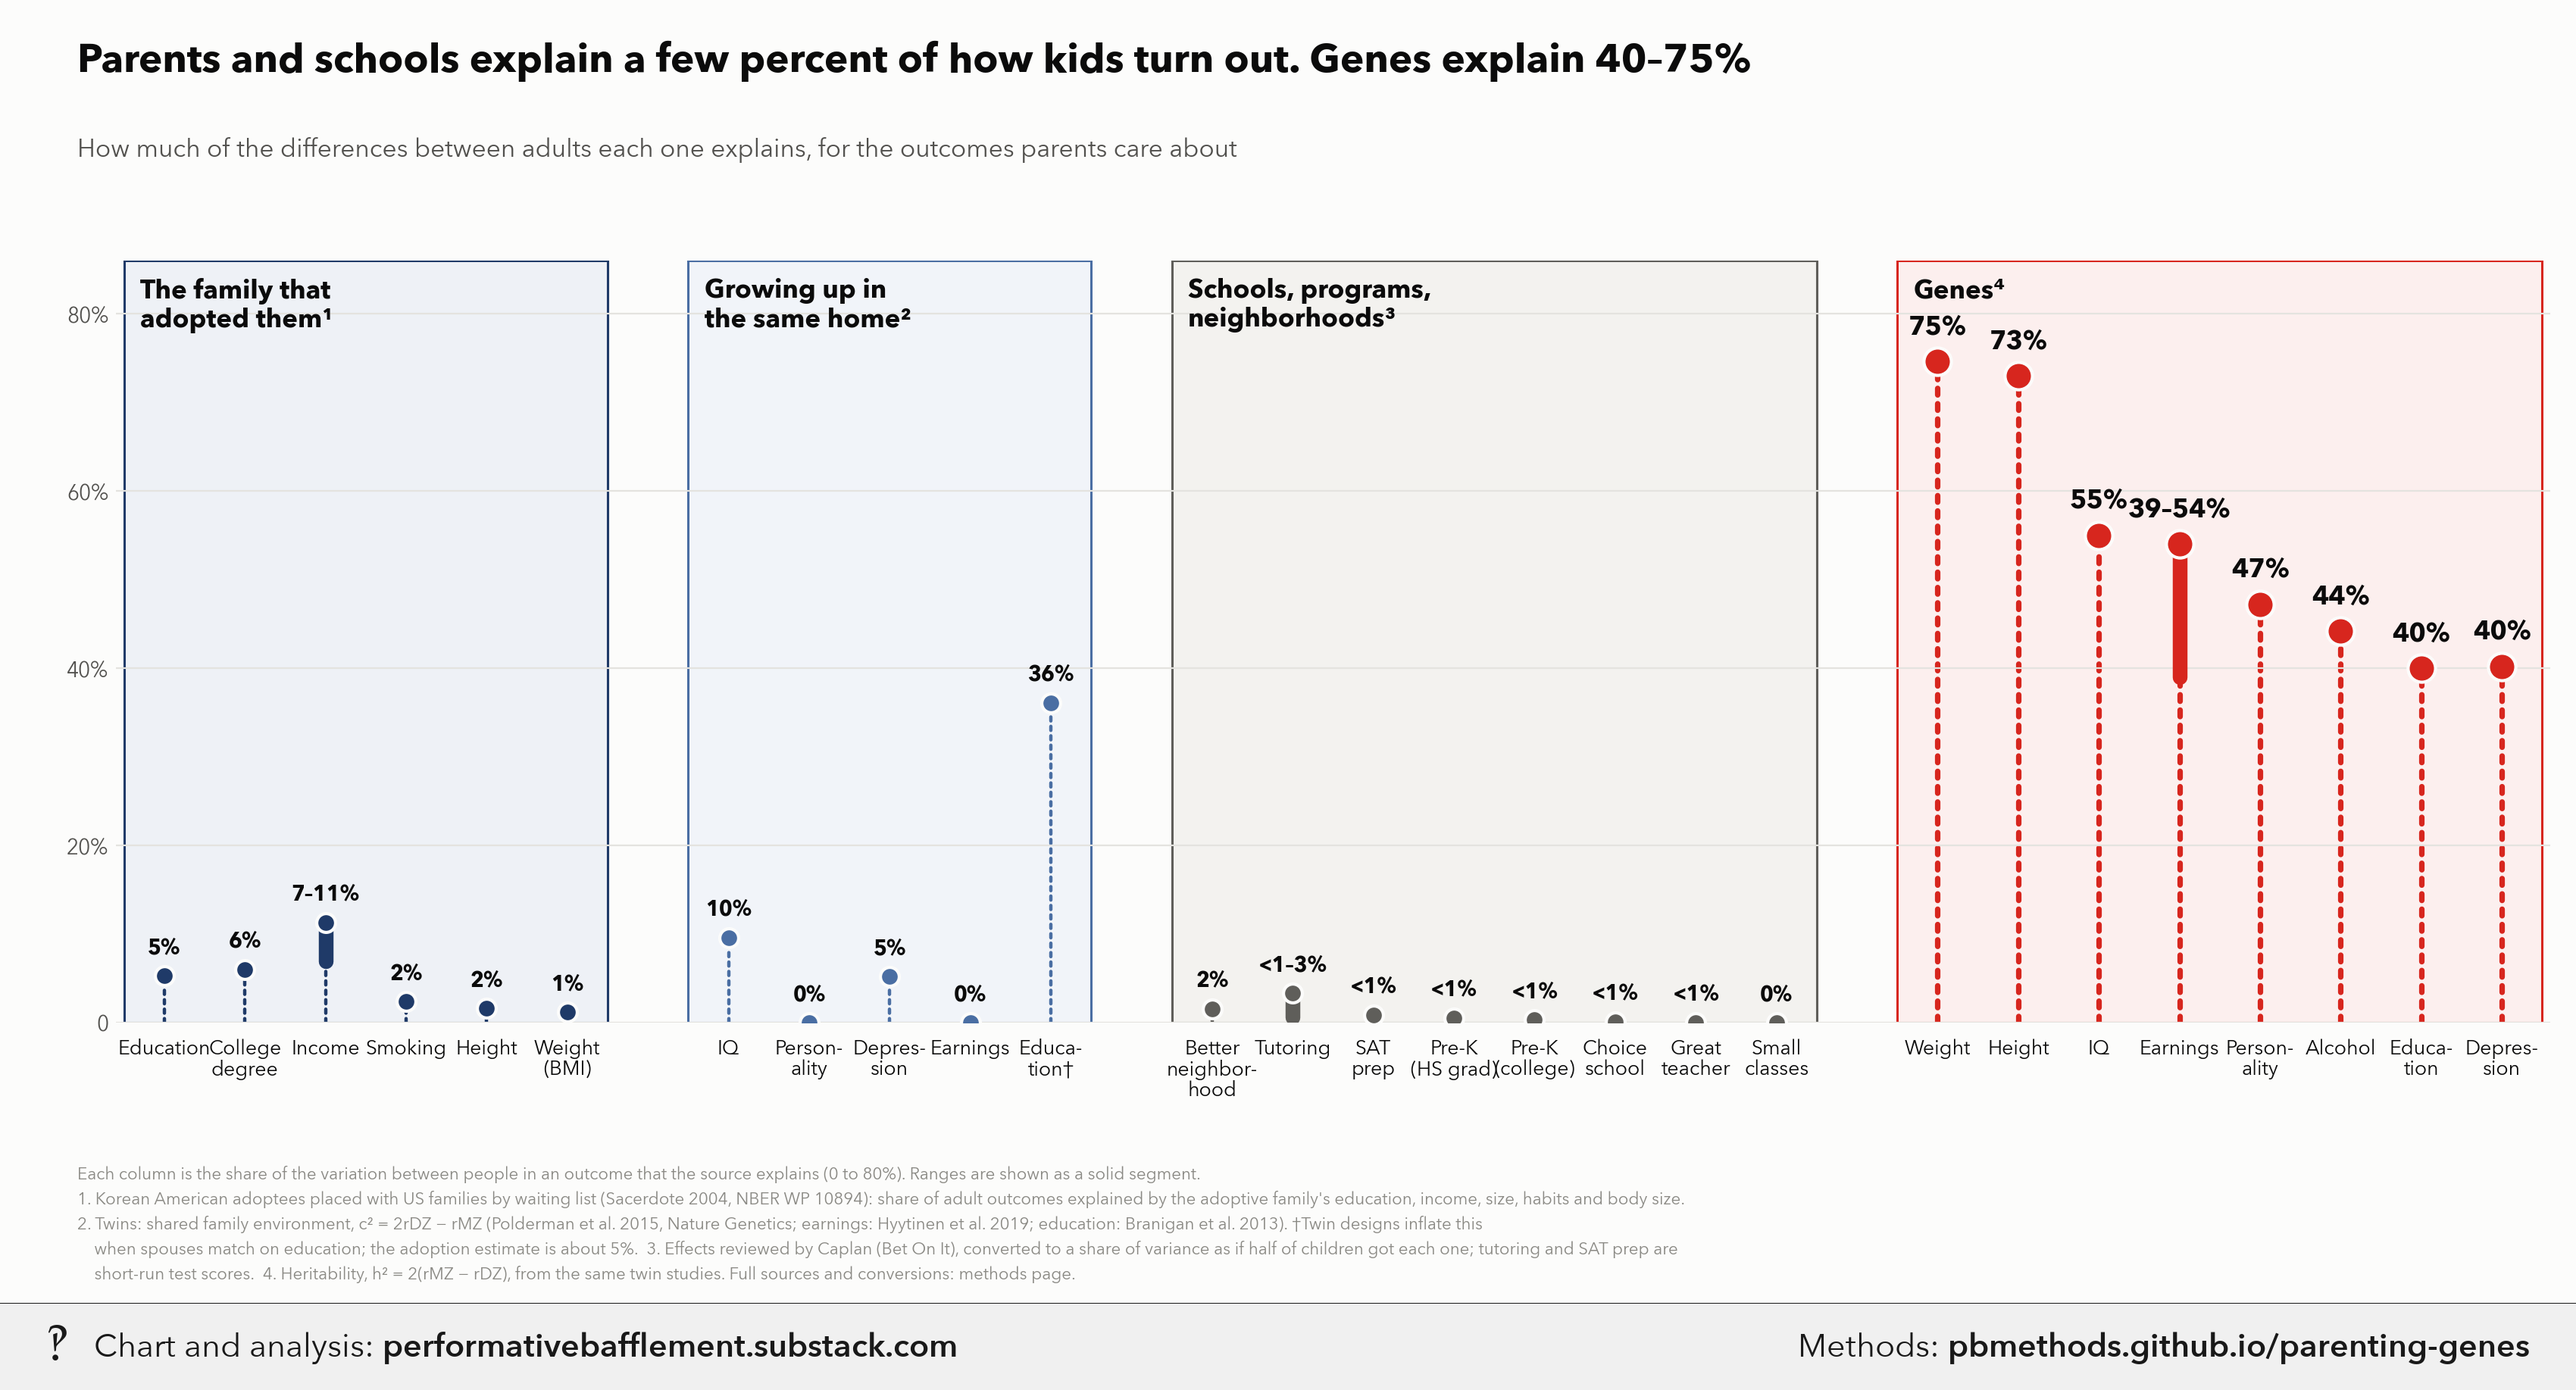
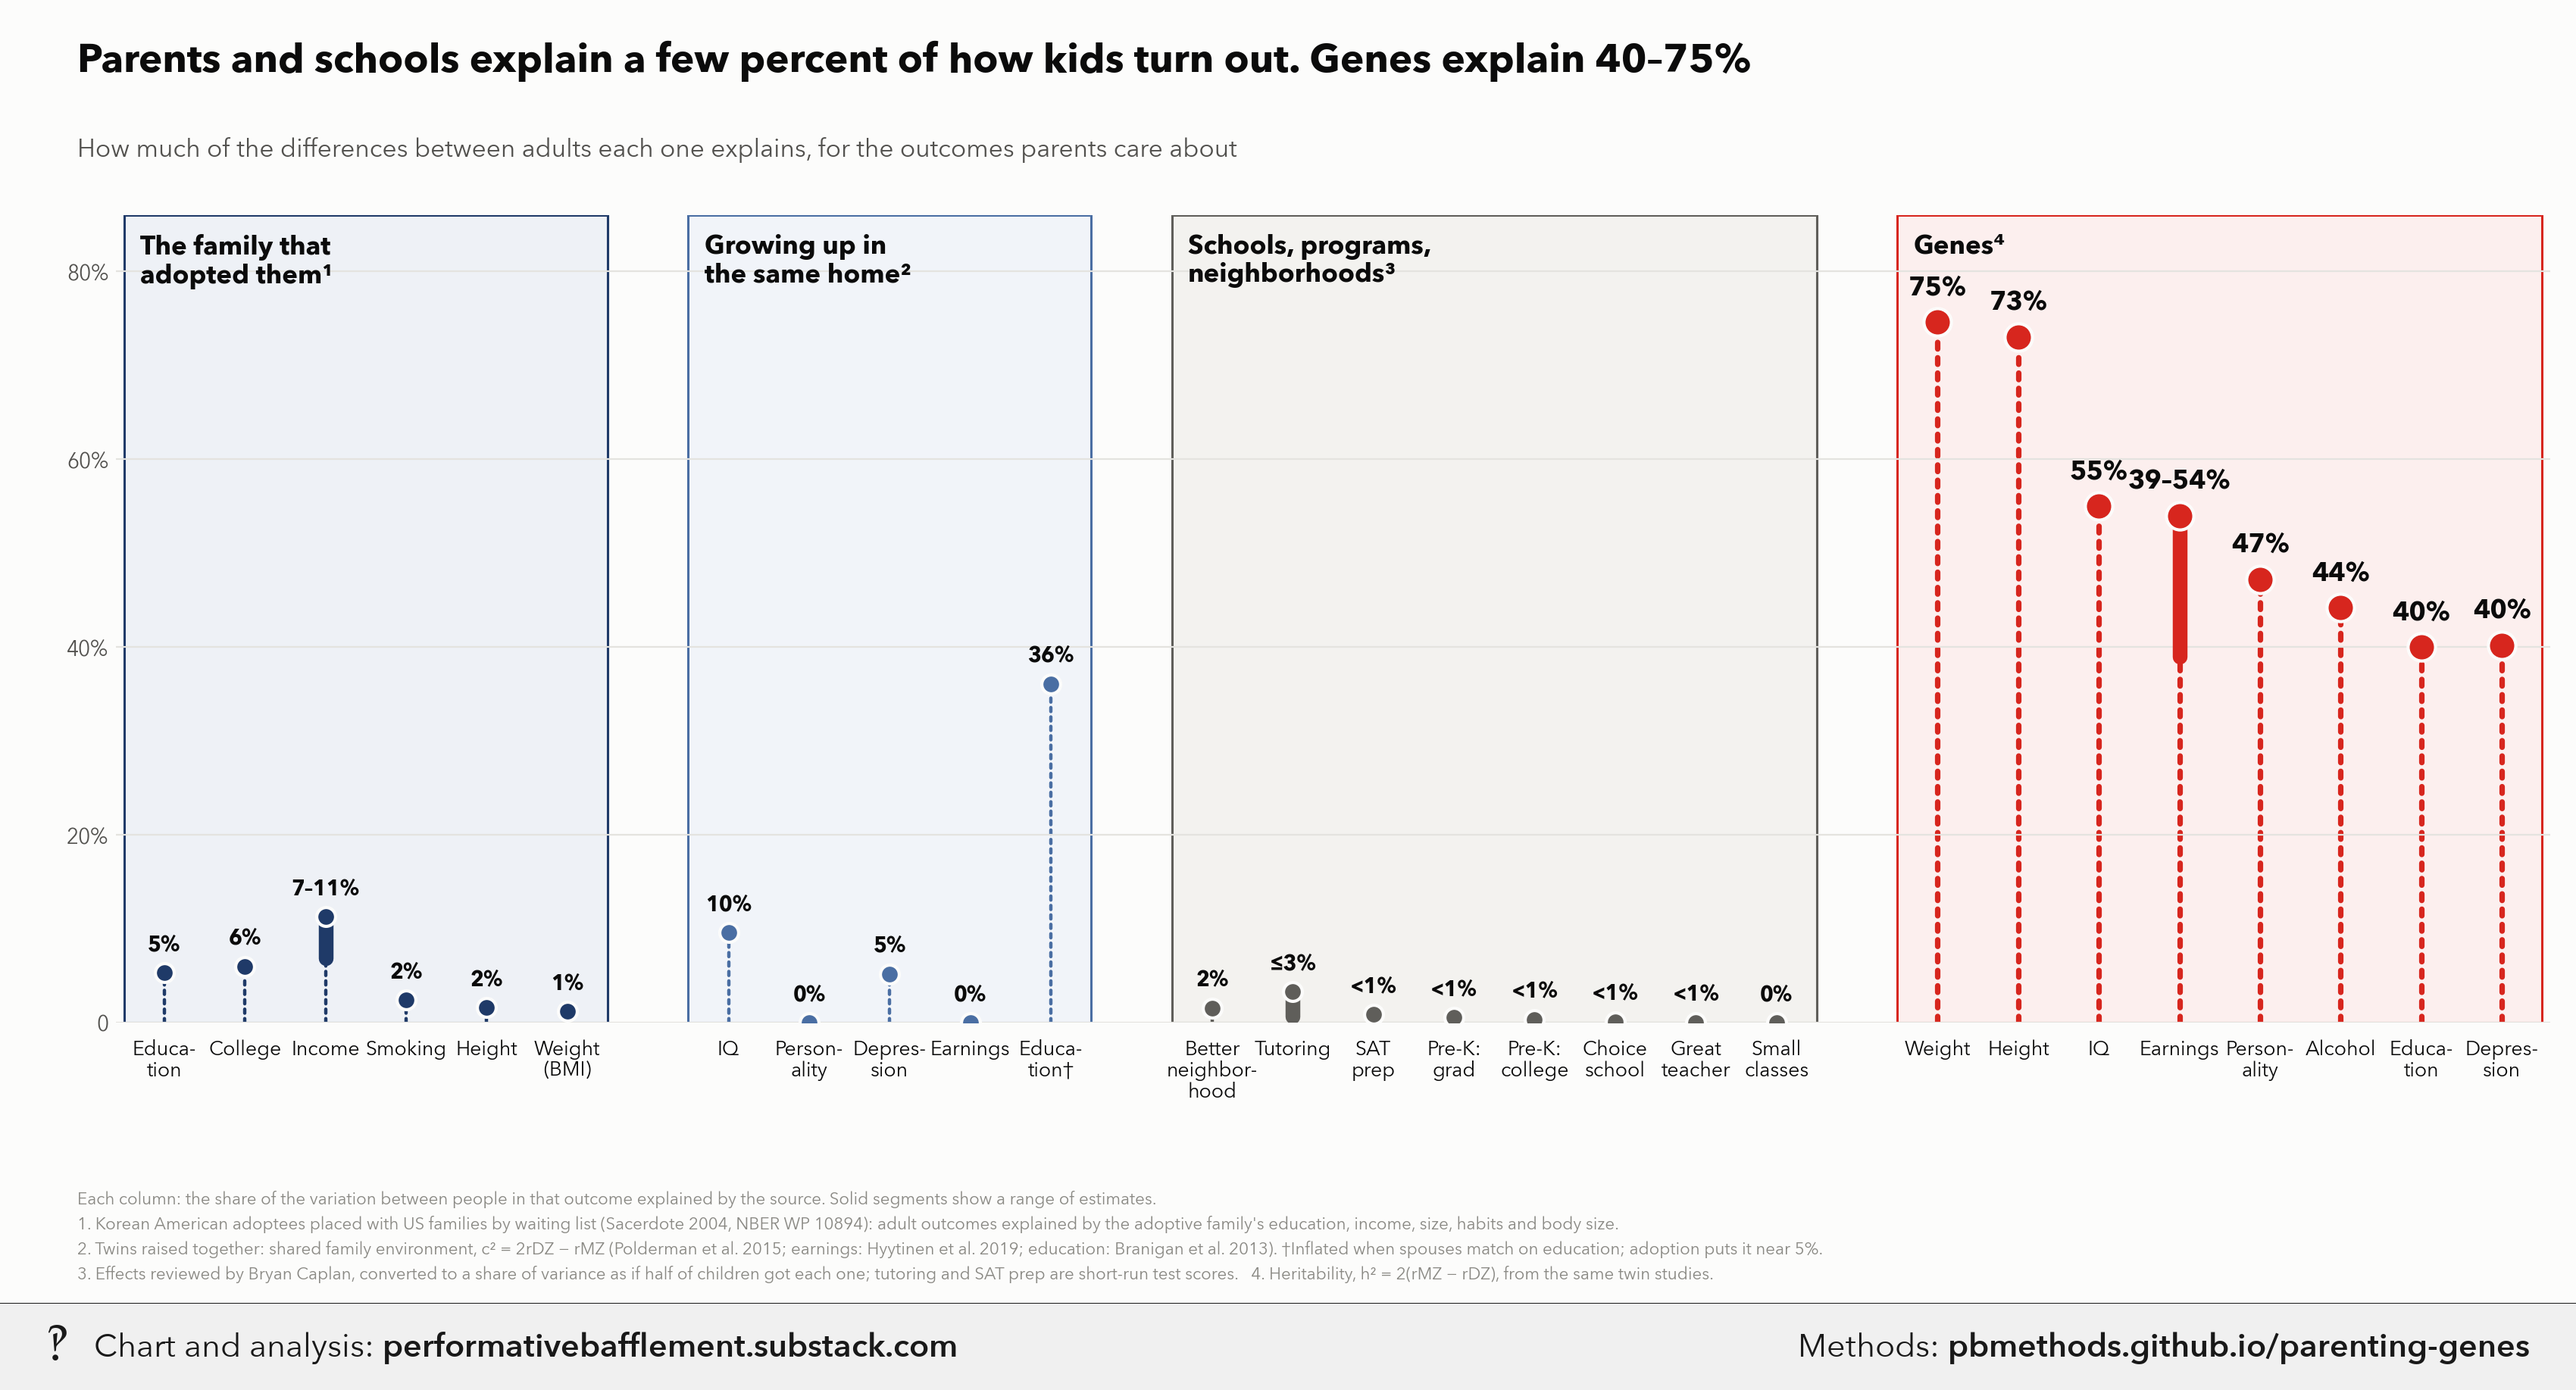
Update parenting-genes

diff --git a/parenting-genes/index.html b/parenting-genes/index.html
@@ -388,8 +388,8 @@ weight, height, alc = fal(.810, .437), fal(.908, .543), fal(.630, .409)
 
 # group, short label (chart), full outcome (csv), lo, hi, source; † marks a footnoted exception
 ROWS = [
-    (&quot;adopt&quot;, &quot;Education&quot;, &quot;Years of education&quot;, .053, .053, &quot;Sacerdote 2004&quot;),
-    (&quot;adopt&quot;, &quot;College\ndegree&quot;, &quot;College degree&quot;, .060, .060, &quot;Sacerdote 2004&quot;),
+    (&quot;adopt&quot;, &quot;Educa-\ntion&quot;, &quot;Years of education&quot;, .053, .053, &quot;Sacerdote 2004&quot;),
+    (&quot;adopt&quot;, &quot;College&quot;, &quot;College degree&quot;, .060, .060, &quot;Sacerdote 2004&quot;),
     (&quot;adopt&quot;, &quot;Income&quot;, &quot;Household income (level, log)&quot;, .069, .113, &quot;Sacerdote 2004&quot;),
     (&quot;adopt&quot;, &quot;Smoking&quot;, &quot;Smoking&quot;, .024, .024, &quot;Sacerdote 2004&quot;),
     (&quot;adopt&quot;, &quot;Height&quot;, &quot;Height&quot;, .016, .016, &quot;Sacerdote 2004&quot;),
@@ -404,9 +404,9 @@ ROWS = [
     (&quot;lever&quot;, &quot;Tutoring&quot;, &quot;Intensive math tutoring, short-run test scores&quot;, d2var(.16), d2var(.37),
      &quot;Guryan et al. 2023&quot;),
     (&quot;lever&quot;, &quot;SAT\nprep&quot;, &quot;Premium SAT prep, SAT score&quot;, d2var(.14), d2var(.19), &quot;Buchmann et al. 2010&quot;),
-    (&quot;lever&quot;, &quot;Pre-K\n(HS grad)&quot;, &quot;Universal pre-K, high-school graduation&quot;, pp2var(.06, .6), pp2var(.06, .8),
+    (&quot;lever&quot;, &quot;Pre-K:\ngrad&quot;, &quot;Universal pre-K, high-school graduation&quot;, pp2var(.06, .6), pp2var(.06, .8),
      &quot;Gray-Lobe et al. 2023&quot;),
-    (&quot;lever&quot;, &quot;Pre-K\n(college)&quot;, &quot;Universal pre-K, ever attends 4-year college&quot;, pp2var(.059, .5),
+    (&quot;lever&quot;, &quot;Pre-K:\ncollege&quot;, &quot;Universal pre-K, ever attends 4-year college&quot;, pp2var(.059, .5),
      pp2var(.059, .5), &quot;Gray-Lobe et al. 2023&quot;),
     (&quot;lever&quot;, &quot;Choice\nschool&quot;, &quot;First-choice school, test scores&quot;, d2var(.07), d2var(.07),
      &quot;Abdulkadiroglu et al. 2020&quot;),
@@ -442,20 +442,21 @@ def pct(v):
 
 def label(lo, hi):
     a, b = pct(lo), pct(hi)
-    return f&quot;{a}%&quot; if a == b else f&quot;{a}–{b}%&quot;
+    if a == b:
+        return f&quot;{a}%&quot;
+    return f&quot;≤{b}%&quot; if a == &quot;&lt;1&quot; else f&quot;{a}–{b}%&quot;
 
 
 FOOTNOTE = (
-    &quot;Each column is the share of the variation between people in an outcome that the source explains (0 to 80%). &quot;
-    &quot;Ranges are shown as a solid segment.\n&quot;
-    &quot;1. Korean American adoptees placed with US families by waiting list (Sacerdote 2004, NBER WP 10894): share of &quot;
-    &quot;adult outcomes explained by the adoptive family's education, income, size, habits and body size.\n&quot;
-    &quot;2. Twins: shared family environment, c² = 2rDZ − rMZ (Polderman et al. 2015, Nature Genetics; earnings: Hyytinen &quot;
-    &quot;et al. 2019; education: Branigan et al. 2013). †Twin designs inflate this\n&quot;
-    &quot;    when spouses match on education; the adoption estimate is about 5%.  &quot;
-    &quot;3. Effects reviewed by Caplan (Bet On It), converted to a share of variance as if half of children got each one; &quot;
-    &quot;tutoring and SAT prep are\n    short-run test scores.  &quot;
-    &quot;4. Heritability, h² = 2(rMZ − rDZ), from the same twin studies. Full sources and conversions: methods page.&quot;
+    &quot;Each column: the share of the variation between people in that outcome explained by the source. Solid segments &quot;
+    &quot;show a range of estimates.\n&quot;
+    &quot;1. Korean American adoptees placed with US families by waiting list (Sacerdote 2004, NBER WP 10894): adult &quot;
+    &quot;outcomes explained by the adoptive family's education, income, size, habits and body size.\n&quot;
+    &quot;2. Twins raised together: shared family environment, c² = 2rDZ − rMZ (Polderman et al. 2015; earnings: Hyytinen &quot;
+    &quot;et al. 2019; education: Branigan et al. 2013). †Inflated when spouses match on education; adoption puts it near &quot;
+    &quot;5%.\n&quot;
+    &quot;3. Effects reviewed by Bryan Caplan, converted to a share of variance as if half of children got each one; &quot;
+    &quot;tutoring and SAT prep are short-run test scores.   4. Heritability, h² = 2(rMZ − rDZ), from the same twin studies.&quot;
 )
 
 
@@ -464,7 +465,7 @@ def main():
     df.drop(columns=&quot;short&quot;).to_csv(HERE / &quot;parenting_vs_genes.csv&quot;, index=False, float_format=&quot;%.4f&quot;)
 
     fig, ax = plt.subplots(figsize=(17, 8.6))
-    fig.subplots_adjust(left=0.045, right=0.99, top=0.80, bottom=0.215)
+    fig.subplots_adjust(left=0.045, right=0.99, top=0.835, bottom=0.215)
     GAP, TOP = 1.0, 0.86
     x, xs, spans = 0.0, [], {}
     for g in df.group:

diff --git a/parenting-genes/methods.md b/parenting-genes/methods.md
@@ -206,8 +206,8 @@ weight, height, alc = fal(.810, .437), fal(.908, .543), fal(.630, .409)
 
 # group, short label (chart), full outcome (csv), lo, hi, source; † marks a footnoted exception
 ROWS = [
-    ("adopt", "Education", "Years of education", .053, .053, "Sacerdote 2004"),
-    ("adopt", "College\ndegree", "College degree", .060, .060, "Sacerdote 2004"),
+    ("adopt", "Educa-\ntion", "Years of education", .053, .053, "Sacerdote 2004"),
+    ("adopt", "College", "College degree", .060, .060, "Sacerdote 2004"),
     ("adopt", "Income", "Household income (level, log)", .069, .113, "Sacerdote 2004"),
     ("adopt", "Smoking", "Smoking", .024, .024, "Sacerdote 2004"),
     ("adopt", "Height", "Height", .016, .016, "Sacerdote 2004"),
@@ -222,9 +222,9 @@ ROWS = [
     ("lever", "Tutoring", "Intensive math tutoring, short-run test scores", d2var(.16), d2var(.37),
      "Guryan et al. 2023"),
     ("lever", "SAT\nprep", "Premium SAT prep, SAT score", d2var(.14), d2var(.19), "Buchmann et al. 2010"),
-    ("lever", "Pre-K\n(HS grad)", "Universal pre-K, high-school graduation", pp2var(.06, .6), pp2var(.06, .8),
+    ("lever", "Pre-K:\ngrad", "Universal pre-K, high-school graduation", pp2var(.06, .6), pp2var(.06, .8),
      "Gray-Lobe et al. 2023"),
-    ("lever", "Pre-K\n(college)", "Universal pre-K, ever attends 4-year college", pp2var(.059, .5),
+    ("lever", "Pre-K:\ncollege", "Universal pre-K, ever attends 4-year college", pp2var(.059, .5),
      pp2var(.059, .5), "Gray-Lobe et al. 2023"),
     ("lever", "Choice\nschool", "First-choice school, test scores", d2var(.07), d2var(.07),
      "Abdulkadiroglu et al. 2020"),
@@ -260,20 +260,21 @@ def pct(v):
 
 def label(lo, hi):
     a, b = pct(lo), pct(hi)
-    return f"{a}%" if a == b else f"{a}–{b}%"
+    if a == b:
+        return f"{a}%"
+    return f"≤{b}%" if a == "<1" else f"{a}–{b}%"
 
 
 FOOTNOTE = (
-    "Each column is the share of the variation between people in an outcome that the source explains (0 to 80%). "
-    "Ranges are shown as a solid segment.\n"
-    "1. Korean American adoptees placed with US families by waiting list (Sacerdote 2004, NBER WP 10894): share of "
-    "adult outcomes explained by the adoptive family's education, income, size, habits and body size.\n"
-    "2. Twins: shared family environment, c² = 2rDZ − rMZ (Polderman et al. 2015, Nature Genetics; earnings: Hyytinen "
-    "et al. 2019; education: Branigan et al. 2013). †Twin designs inflate this\n"
-    "    when spouses match on education; the adoption estimate is about 5%.  "
-    "3. Effects reviewed by Caplan (Bet On It), converted to a share of variance as if half of children got each one; "
-    "tutoring and SAT prep are\n    short-run test scores.  "
-    "4. Heritability, h² = 2(rMZ − rDZ), from the same twin studies. Full sources and conversions: methods page."
+    "Each column: the share of the variation between people in that outcome explained by the source. Solid segments "
+    "show a range of estimates.\n"
+    "1. Korean American adoptees placed with US families by waiting list (Sacerdote 2004, NBER WP 10894): adult "
+    "outcomes explained by the adoptive family's education, income, size, habits and body size.\n"
+    "2. Twins raised together: shared family environment, c² = 2rDZ − rMZ (Polderman et al. 2015; earnings: Hyytinen "
+    "et al. 2019; education: Branigan et al. 2013). †Inflated when spouses match on education; adoption puts it near "
+    "5%.\n"
+    "3. Effects reviewed by Bryan Caplan, converted to a share of variance as if half of children got each one; "
+    "tutoring and SAT prep are short-run test scores.   4. Heritability, h² = 2(rMZ − rDZ), from the same twin studies."
 )
 
 
@@ -282,7 +283,7 @@ def main():
     df.drop(columns="short").to_csv(HERE / "parenting_vs_genes.csv", index=False, float_format="%.4f")
 
     fig, ax = plt.subplots(figsize=(17, 8.6))
-    fig.subplots_adjust(left=0.045, right=0.99, top=0.80, bottom=0.215)
+    fig.subplots_adjust(left=0.045, right=0.99, top=0.835, bottom=0.215)
     GAP, TOP = 1.0, 0.86
     x, xs, spans = 0.0, [], {}
     for g in df.group:
